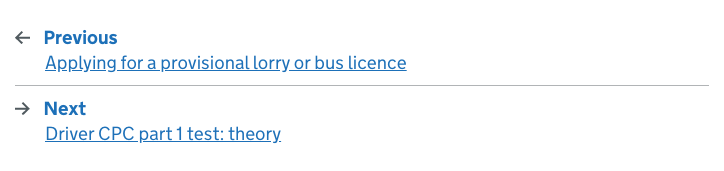
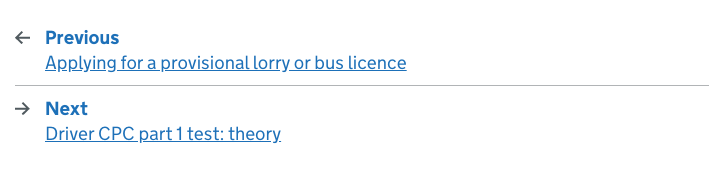
Upgrade to govuk-frontend 5.5.0

Changed region(s): [[0.0608, 0.1754, 0.1823, 0.2632], [0.0608, 0.5848, 0.1215, 0.6725]]

diff --git a/README.md b/README.md
@@ -3,7 +3,7 @@
 ![ci](https://github.com/gunndabad/govuk-frontend-aspnetcore/workflows/ci/badge.svg)
 ![NuGet Downloads](https://img.shields.io/nuget/dt/GovUk.Frontend.AspNetCore)
 
-Targets [GDS Frontend v5.4.1](https://github.com/alphagov/govuk-frontend/releases/tag/v5.4.1)
+Targets [GDS Frontend v5.5.0](https://github.com/alphagov/govuk-frontend/releases/tag/v5.5.0)
 
 ## Installation
 

diff --git a/CHANGELOG.md b/CHANGELOG.md
@@ -1,5 +1,9 @@
 # Changelog
 
+## Unreleased
+
+Targets GOV.UK Frontend v5.5.0.
+
 ## 2.4.0
 
 Targets GOV.UK Frontend v5.4.1.
